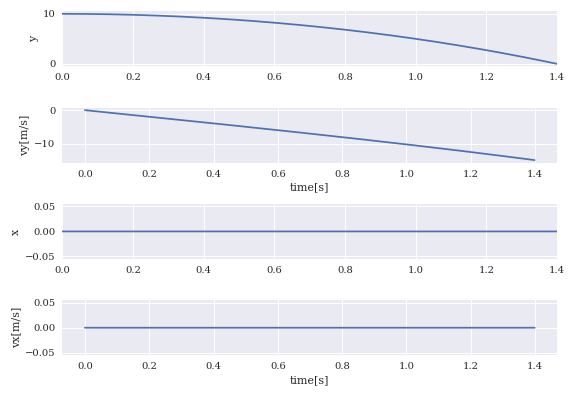
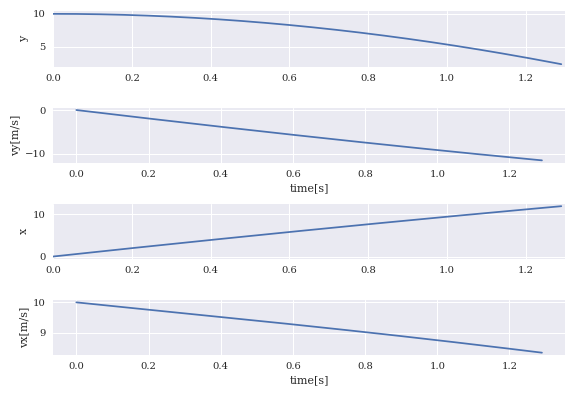
small typo

diff --git a/doc/pub/week5/html/week5-bs.html b/doc/pub/week5/html/week5-bs.html
@@ -1158,7 +1158,7 @@ yanalytic[<span style="color: #666666">0</span>] <span style="color: #666666">=<
 <span style="color: #008000; font-weight: bold">for</span> i <span style="color: #AA22FF; font-weight: bold">in</span> <span style="color: #008000">range</span>(n<span style="color: #666666">-1</span>):
     <span style="color: #408080; font-style: italic"># expression for acceleration, note the absolute value and division by mass</span>
     ax <span style="color: #666666">=</span> <span style="color: #666666">-</span>D<span style="color: #666666">*</span>vx[i]<span style="color: #666666">*</span>sqrt(vx[i]<span style="color: #666666">**2+</span>vy[i]<span style="color: #666666">**2</span>)<span style="color: #666666">/</span>m
-    ay <span style="color: #666666">=</span> <span style="color: #666666">-</span>g <span style="color: #666666">+</span> D<span style="color: #666666">*</span>vy[i]<span style="color: #666666">*</span>sqrt(vx[i]<span style="color: #666666">**2+</span>vy[i]<span style="color: #666666">**2</span>)<span style="color: #666666">/</span>m
+    ay <span style="color: #666666">=</span> <span style="color: #666666">-</span>g <span style="color: #666666">-</span> D<span style="color: #666666">*</span>vy[i]<span style="color: #666666">*</span>sqrt(vx[i]<span style="color: #666666">**2+</span>vy[i]<span style="color: #666666">**2</span>)<span style="color: #666666">/</span>m
     <span style="color: #408080; font-style: italic"># update velocity and position</span>
     vx[i<span style="color: #666666">+1</span>] <span style="color: #666666">=</span> vx[i] <span style="color: #666666">+</span> DeltaT<span style="color: #666666">*</span>ax
     x[i<span style="color: #666666">+1</span>] <span style="color: #666666">=</span> x[i] <span style="color: #666666">+</span> DeltaT<span style="color: #666666">*</span>vx[i]

diff --git a/doc/pub/week5/html/week5.html b/doc/pub/week5/html/week5.html
@@ -1168,7 +1168,7 @@ yanalytic[<span style="color: #666666">0</span>] <span style="color: #666666">=<
 <span style="color: #008000; font-weight: bold">for</span> i <span style="color: #AA22FF; font-weight: bold">in</span> <span style="color: #008000">range</span>(n<span style="color: #666666">-1</span>):
     <span style="color: #408080; font-style: italic"># expression for acceleration, note the absolute value and division by mass</span>
     ax <span style="color: #666666">=</span> <span style="color: #666666">-</span>D<span style="color: #666666">*</span>vx[i]<span style="color: #666666">*</span>sqrt(vx[i]<span style="color: #666666">**2+</span>vy[i]<span style="color: #666666">**2</span>)<span style="color: #666666">/</span>m
-    ay <span style="color: #666666">=</span> <span style="color: #666666">-</span>g <span style="color: #666666">+</span> D<span style="color: #666666">*</span>vy[i]<span style="color: #666666">*</span>sqrt(vx[i]<span style="color: #666666">**2+</span>vy[i]<span style="color: #666666">**2</span>)<span style="color: #666666">/</span>m
+    ay <span style="color: #666666">=</span> <span style="color: #666666">-</span>g <span style="color: #666666">-</span> D<span style="color: #666666">*</span>vy[i]<span style="color: #666666">*</span>sqrt(vx[i]<span style="color: #666666">**2+</span>vy[i]<span style="color: #666666">**2</span>)<span style="color: #666666">/</span>m
     <span style="color: #408080; font-style: italic"># update velocity and position</span>
     vx[i<span style="color: #666666">+1</span>] <span style="color: #666666">=</span> vx[i] <span style="color: #666666">+</span> DeltaT<span style="color: #666666">*</span>ax
     x[i<span style="color: #666666">+1</span>] <span style="color: #666666">=</span> x[i] <span style="color: #666666">+</span> DeltaT<span style="color: #666666">*</span>vx[i]

diff --git a/doc/pub/week5/html/week5-reveal.html b/doc/pub/week5/html/week5-reveal.html
@@ -1253,7 +1253,7 @@ yanalytic[<span style="color: #B452CD">0</span>] = y[<span style="color: #B452CD
 <span style="color: #8B008B; font-weight: bold">for</span> i <span style="color: #8B008B">in</span> <span style="color: #658b00">range</span>(n-<span style="color: #B452CD">1</span>):
     <span style="color: #228B22"># expression for acceleration, note the absolute value and division by mass</span>
     ax = -D*vx[i]*sqrt(vx[i]**<span style="color: #B452CD">2</span>+vy[i]**<span style="color: #B452CD">2</span>)/m
-    ay = -g + D*vy[i]*sqrt(vx[i]**<span style="color: #B452CD">2</span>+vy[i]**<span style="color: #B452CD">2</span>)/m
+    ay = -g - D*vy[i]*sqrt(vx[i]**<span style="color: #B452CD">2</span>+vy[i]**<span style="color: #B452CD">2</span>)/m
     <span style="color: #228B22"># update velocity and position</span>
     vx[i+<span style="color: #B452CD">1</span>] = vx[i] + DeltaT*ax
     x[i+<span style="color: #B452CD">1</span>] = x[i] + DeltaT*vx[i]

diff --git a/doc/pub/week5/html/week5-solarized.html b/doc/pub/week5/html/week5-solarized.html
@@ -1091,7 +1091,7 @@ yanalytic[<span style="color: #B452CD">0</span>] = y[<span style="color: #B452CD
 <span style="color: #8B008B; font-weight: bold">for</span> i <span style="color: #8B008B">in</span> <span style="color: #658b00">range</span>(n-<span style="color: #B452CD">1</span>):
     <span style="color: #228B22"># expression for acceleration, note the absolute value and division by mass</span>
     ax = -D*vx[i]*sqrt(vx[i]**<span style="color: #B452CD">2</span>+vy[i]**<span style="color: #B452CD">2</span>)/m
-    ay = -g + D*vy[i]*sqrt(vx[i]**<span style="color: #B452CD">2</span>+vy[i]**<span style="color: #B452CD">2</span>)/m
+    ay = -g - D*vy[i]*sqrt(vx[i]**<span style="color: #B452CD">2</span>+vy[i]**<span style="color: #B452CD">2</span>)/m
     <span style="color: #228B22"># update velocity and position</span>
     vx[i+<span style="color: #B452CD">1</span>] = vx[i] + DeltaT*ax
     x[i+<span style="color: #B452CD">1</span>] = x[i] + DeltaT*vx[i]
